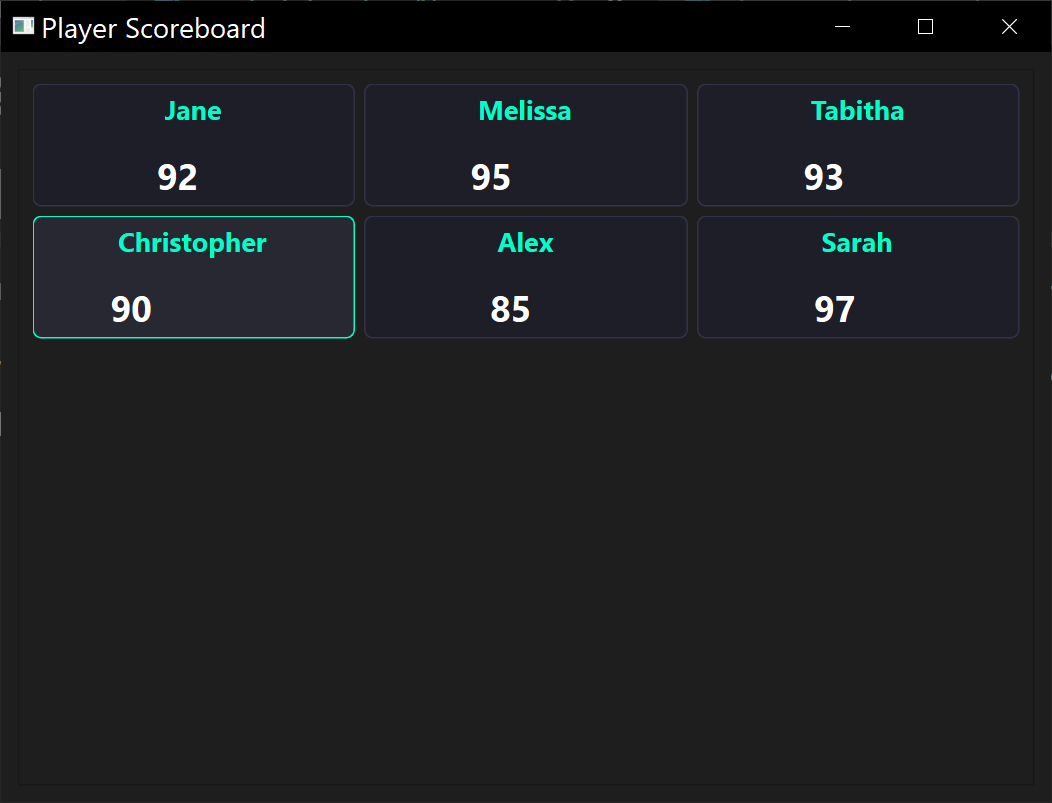
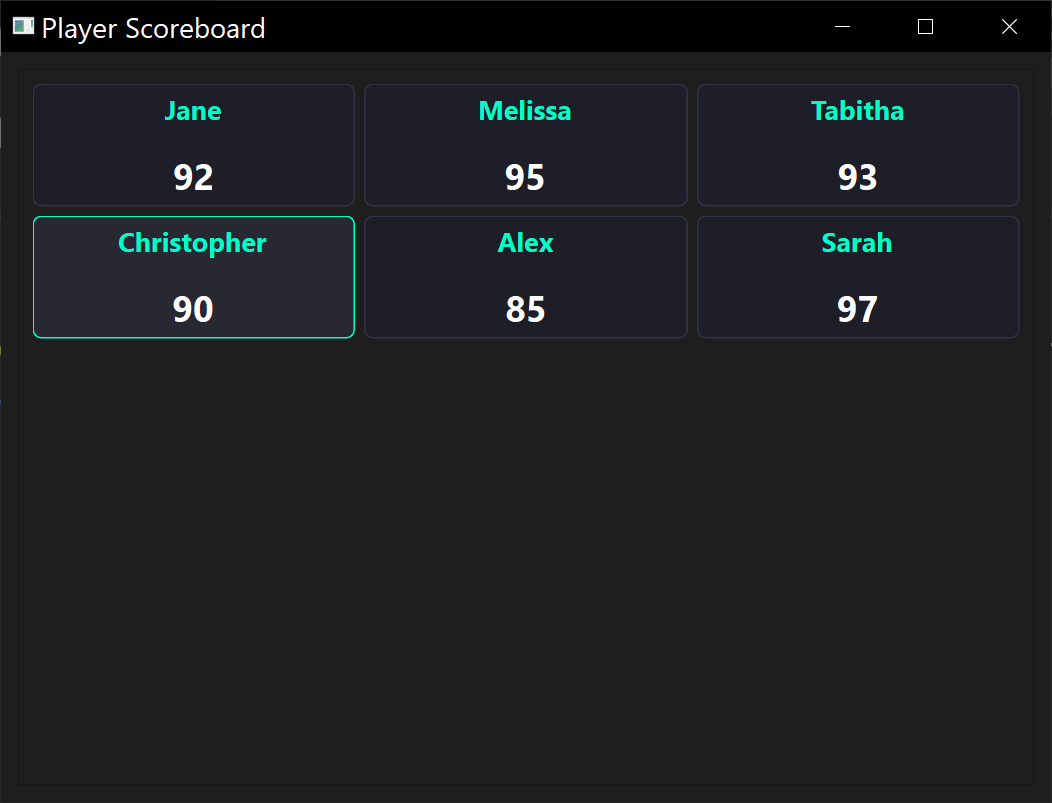
update

diff --git a/pyside6dom/__init__.py b/pyside6dom/__init__.py
@@ -313,6 +313,15 @@ class DOMStyle:
                     self._element.layout.setAlignment(Qt.AlignmentFlag(0)) 
             return
 
+        # INLINE TEXT ALIGNMENT
+        if key == 'textAlign':
+            # Hijack the key so the compiler below automatically turns it into 'qproperty-alignment'
+            key = 'qpropertyAlignment' 
+            
+            if value == 'center': value = 'AlignCenter'
+            elif value == 'right': value = 'AlignRight'
+            elif value == 'left': value = 'AlignLeft'
+
         # CSS COMPILER
         css_property = ''.join(['-' + c.lower() if c.isupper() else c for c in key])
         self._styles[css_property] = value
@@ -727,6 +736,11 @@ def set_theme(css_string):
     global _pending_theme 
     css_string = css_string.replace("body", "QMainWindow, QWidget#central_widget")
     css_string = css_string.replace("font-color", "color")
+
+    # Translate standard HTML text-align to Qt's native property
+    css_string = re.sub(r'text-align\s*:\s*center', "qproperty-alignment: 'AlignCenter'", css_string)
+    css_string = re.sub(r'text-align\s*:\s*right', "qproperty-alignment: 'AlignRight'", css_string)
+    css_string = re.sub(r'text-align\s*:\s*left', "qproperty-alignment: 'AlignLeft'", css_string)
     css_string = re.sub(r'\bscroll_div\b', 'QScrollArea', css_string)
     css_string = re.sub(r'\bdiv\b', 'QWidget', css_string)
     css_string = re.sub(r'\bbutton\b', 'QPushButton', css_string)

diff --git a/tutorials/045_grid_data_className/grid_data_className.py b/tutorials/045_grid_data_className/grid_data_className.py
@@ -40,6 +40,7 @@ set_theme("""
         color: white;
         font-size: 24px;
         font-weight: bold;
+        text-align: center;
     }
 """)
 
@@ -75,6 +76,7 @@ for p in players:
     score_lbl = ce('text')
     score_lbl.className = 'player_score'
     score_lbl.textContent = str(p["score"])
+    #score_lbl.style.textAlign = 'center'
     ba(score_lbl, card)
 
 run_app()

diff --git a/README.md b/README.md
@@ -1,4 +1,4 @@
-# PySide6DOM v0.6.2
+# PySide6DOM v0.6.3
 **Bring the simplicity of the Web DOM to Python PySide6 Desktop Applications.**
 
 # Installation
@@ -106,6 +106,7 @@ run_app()
 * position absolute implemented with left and top
 * grid 
 * className
+* text-align
 
 ---
 
